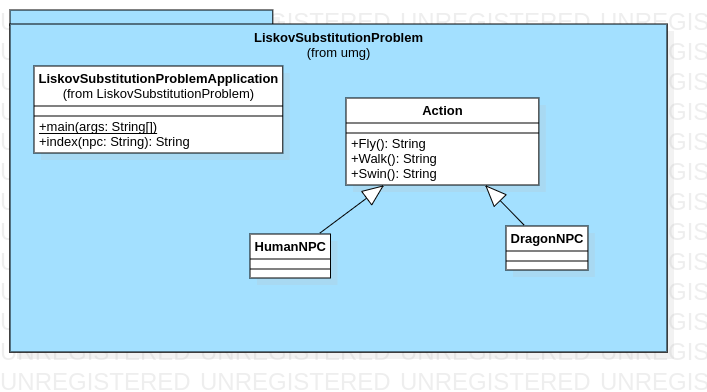
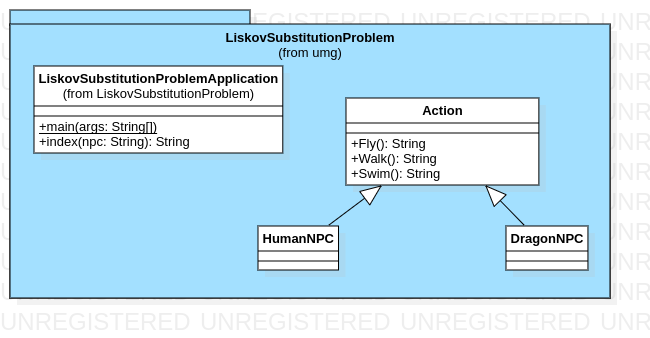
Se han realizado cambios y correcciones segun sonarqube

Changed region(s): [[0.0, 0.0, 0.9538, 0.9172], [0.3385, 0.5325, 0.5231, 0.7988]]

diff --git a/LiskovSubstitutionProblem/src/main/java/gt/edu/umg/liskov_substitution_problem/LiskovSubstitutionProblemApplication.java b/LiskovSubstitutionProblem/src/main/java/gt/edu/umg/liskov_substitution_problem/LiskovSubstitutionProblemApplication.java
@@ -1,56 +1,42 @@
-package gt.edu.umg.LiskovSubstitutionProblem;
+package gt.edu.umg.liskov_substitution_problem;
 
-import java.util.*;
 import org.springframework.boot.SpringApplication;
 import org.springframework.boot.autoconfigure.SpringBootApplication;
 import org.springframework.web.bind.annotation.RequestMapping;
 import org.springframework.web.bind.annotation.RequestParam;
 import org.springframework.web.bind.annotation.RestController;
 
-/**
- * 
- */
 @SpringBootApplication
 
 @RestController
 public class LiskovSubstitutionProblemApplication {
 
     /**
-     * Default constructor
-     */
-    public LiskovSubstitutionProblemApplication() {
-    }
-
-    /**
      * @param args
      */
     public static void main(String[] args) {
-        // TODO implement here
         SpringApplication.run(LiskovSubstitutionProblemApplication.class, args);
     }
 
     /**
      * @param npc 
      * @return
+     * @throws java.lang.Exception
      */
     @RequestMapping("/")
     public String index(@RequestParam(defaultValue = "Dragon") String npc) throws Exception {
-        // TODO implement here
-        String text = new String();
-        if("dragon".equals(npc.toLowerCase())){
+        String text = "";
+        if("dragon".equalsIgnoreCase(npc)){
             DragonNPC dragon = new DragonNPC();
             text += "<br>Dragon " + dragon.Fly();
-            text += "<br>Dragon " + dragon.Swin();
-            text += "<br>Dragon " + dragon.Walk();
+            text += "<br>Dragon " + dragon.Swim();
         }
-        if("human".equals(npc.toLowerCase())){
+        if("human".equalsIgnoreCase(npc)){
             HumanNPC human = new HumanNPC();
             text += "<br>Human " + human.Fly();
-            text += "<br>Human " + human.Swin();
+            text += "<br>Human " + human.Swim();
             text += "<br>Human " + human.Walk();
-        }
-        
+        }        
         return text;
     }
-
 }

diff --git a/LiskovSubstitutionProblem/src/main/java/gt/edu/umg/liskov_substitution_problem/Action.java b/LiskovSubstitutionProblem/src/main/java/gt/edu/umg/liskov_substitution_problem/Action.java
@@ -1,24 +1,12 @@
-package gt.edu.umg.LiskovSubstitutionProblem;
+package gt.edu.umg.liskov_substitution_problem;
 
-import java.util.*;
-
-/**
- * 
- */
-public class Action {
-
-    /**
-     * Default constructor
-     */
-    public Action() {
-    }
+public class Action{
 
     /**
      * @return
      * @throws java.lang.Exception
      */
     public String Fly() throws Exception {
-        // TODO implement here
         return " is flying";
     }
 
@@ -27,7 +15,6 @@ public class Action {
      * @throws java.lang.Exception
      */
     public String Walk() throws Exception {
-        // TODO implement here
         return " is walking";
     }
 
@@ -35,8 +22,7 @@ public class Action {
      * @return
      * @throws java.lang.Exception
      */
-    public String Swin() throws Exception {
-        // TODO implement here
+    public String Swim() throws Exception {
         return " is swimming";
     }
 

diff --git a/LiskovSubstitutionProblem/src/main/java/gt/edu/umg/liskov_substitution_problem/DragonNPC.java b/LiskovSubstitutionProblem/src/main/java/gt/edu/umg/liskov_substitution_problem/DragonNPC.java
@@ -1,0 +1,18 @@
+package gt.edu.umg.liskov_substitution_problem;
+
+public class DragonNPC extends Action {
+
+    
+    /**
+     * @return
+     * @throws java.lang.Exception
+     */
+    @Override
+    public String Swim() throws Exception {
+        //throw new UnsupportedOperationException(" .I can't swim.");
+        return " can't swim.";//borrar esta linea en caso de utilizar throw
+    }
+
+    //por razones de simplificación retorne el texto y no utilice la excepcion.
+
+}

diff --git a/LiskovSubstitutionProblem/src/main/java/gt/edu/umg/liskov_substitution_problem/HumanNPC.java b/LiskovSubstitutionProblem/src/main/java/gt/edu/umg/liskov_substitution_problem/HumanNPC.java
@@ -1,0 +1,17 @@
+package gt.edu.umg.liskov_substitution_problem;
+
+public class HumanNPC extends Action {
+    
+    /**
+     *
+     * @return
+     */
+    @Override
+    public String Fly() throws Exception {
+        //throw new UnsupportedOperationException(" .I can't fly.");
+        return " can't fly.";//borrar esta linea en caso de utilizar throw
+    }
+
+    //por razones de mejor comprension retorne el texto y no utilice la excepcion.
+    
+}
